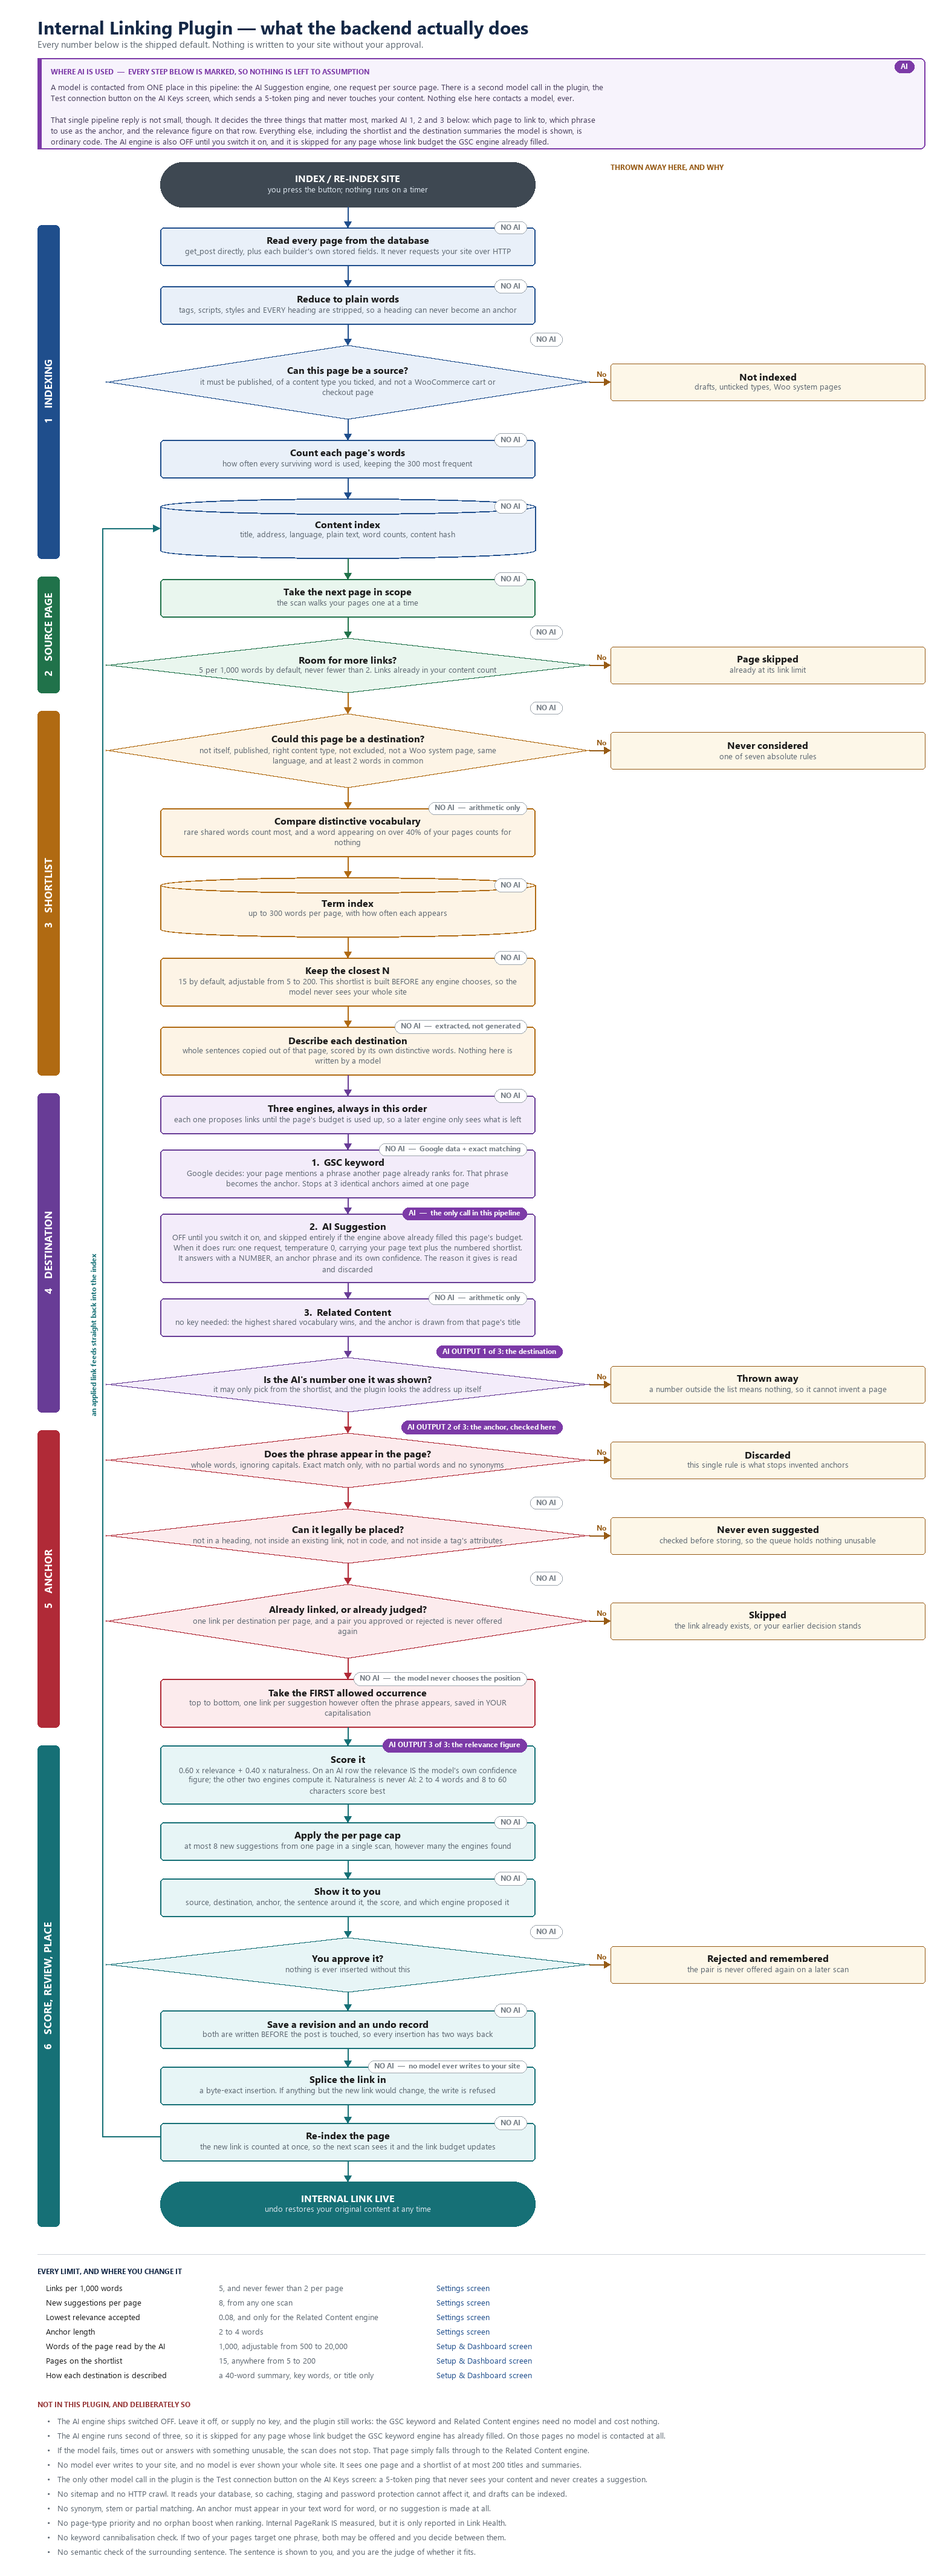
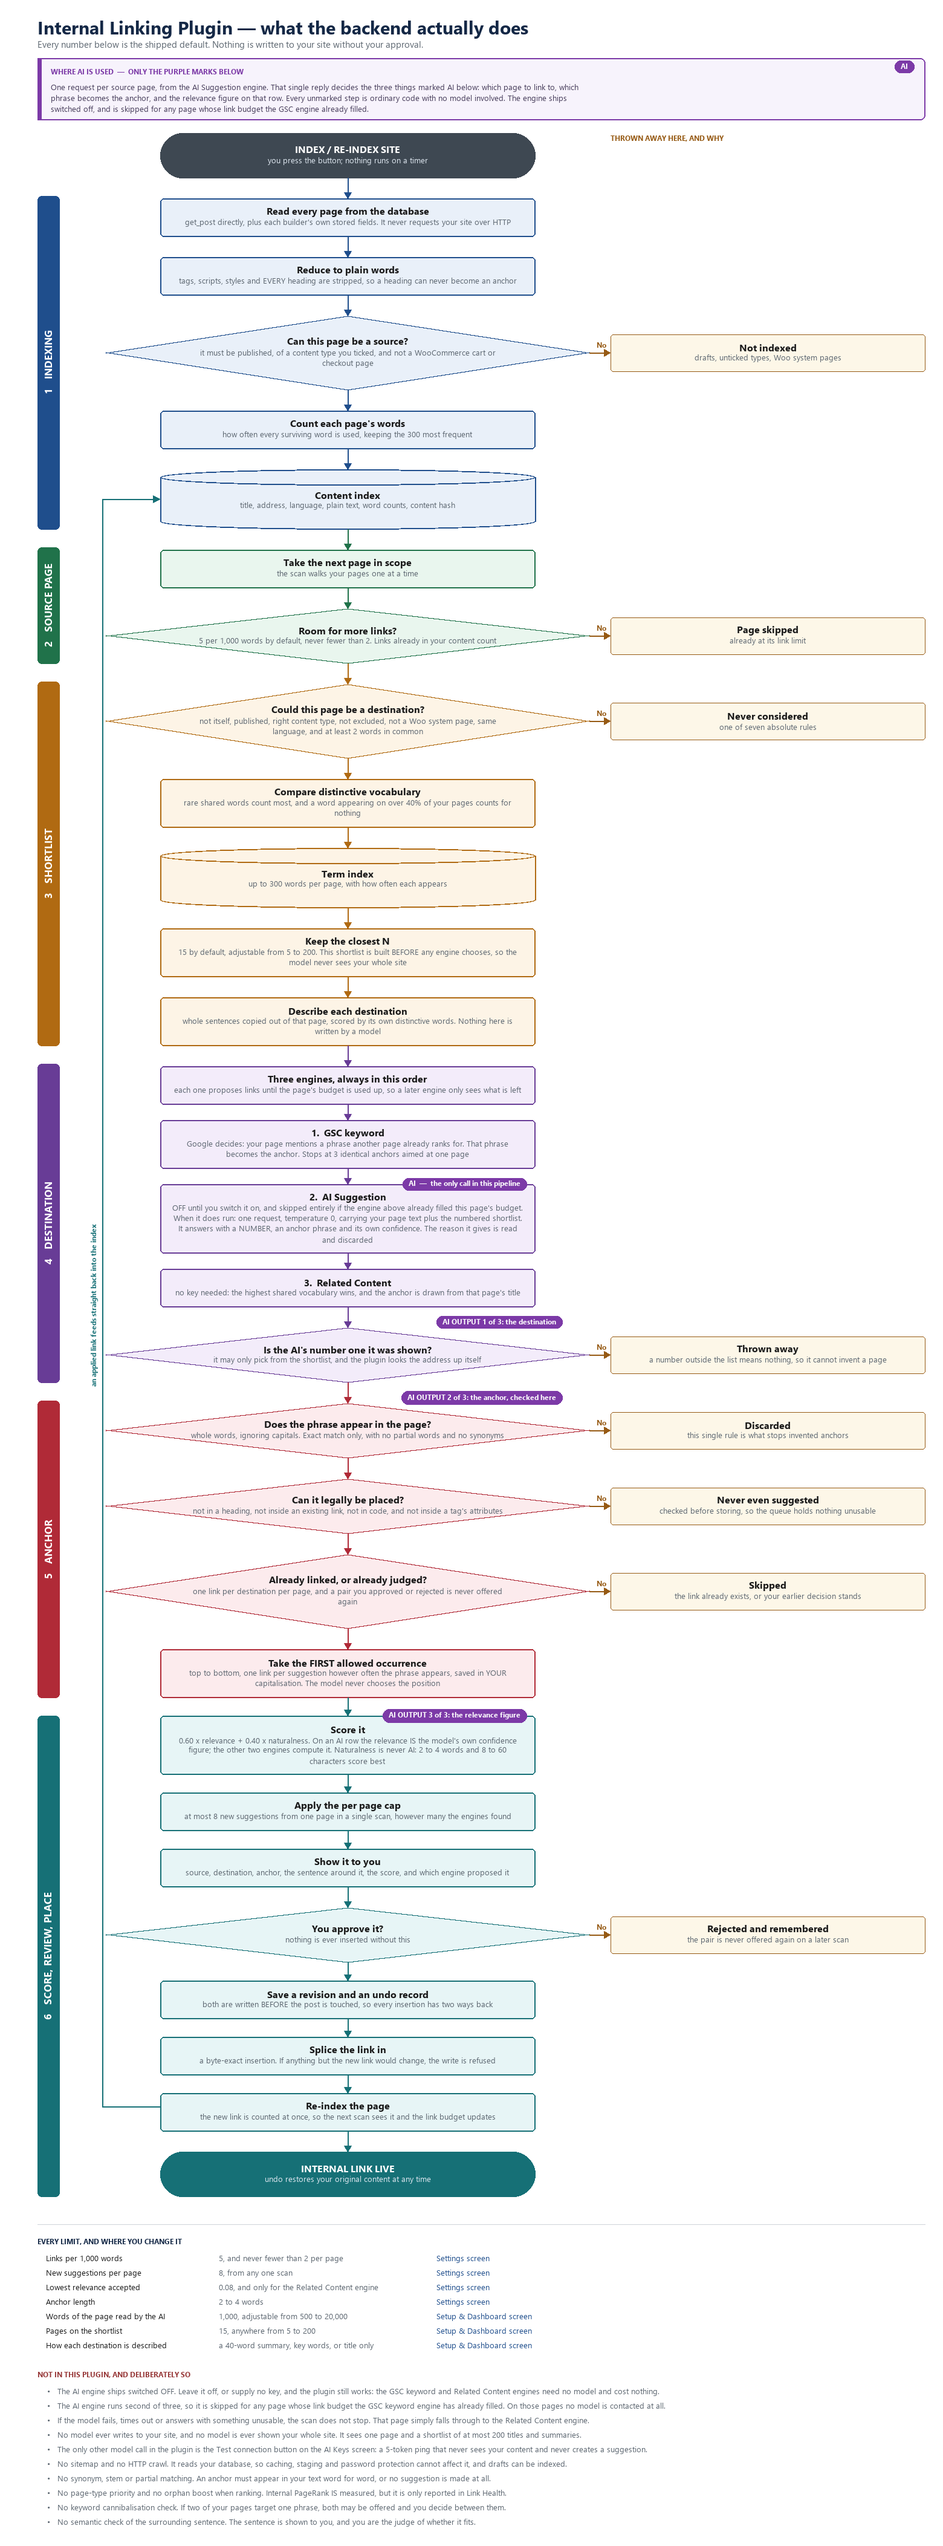
Mark only the steps AI touches, and shorten the callout
Badging every step with NO AI made the chart read as if the absence of
AI were the subject. It also crowded the shapes: 20 grey badges against
4 purple ones, so the marks that mattered stopped standing out.

Now only the four steps a model touches carry a mark. An unmarked step
uses no model, and the callout says so in one line, which is a rule the
reader can hold rather than a label repeated twenty times.

The callout drops from six lines to three and is retitled "Where AI is
used - only the purple marks below", which describes what it is telling
you. The Test connection detail moves out of it and stays in the footer
notes, where it was already stated.

Facts that a NO AI badge was carrying are folded into the step text so
nothing is lost: the model never chooses where in the page the link
goes now reads on the placement step itself.

SHOW_NO_AI in the generator restores the grey badges if they are ever
wanted again.

diff --git a/tools/make-flowchart.py b/tools/make-flowchart.py
@@ -72,6 +72,7 @@ def draw_text_block(title, desc, cx, cy, maxw, ink=INK, sub=GREY):
 
 
 AI_PUR = (124, 58, 167)
+SHOW_NO_AI = False   # badge only the steps a model touches; leave the rest bare
 
 
 def badge(x_right, y_edge, text, kind):
@@ -91,9 +92,10 @@ def badge(x_right, y_edge, text, kind):
 def node(y, title, desc, pal, shape="rect", bdg=None):
     """Draw a spine node. Returns (top, bottom, right_edge)."""
     dark, light = pal
-    # Every step is marked, so "unmarked" can never be mistaken for "unknown".
-    if bdg is None and shape != "oval":
-        bdg = ("NO AI", "no")
+    # Only AI is badged: a mark means a model was involved, and an unmarked
+    # step means it was not. The "no" badges stay in the data but are not drawn.
+    if bdg and bdg[1] != "ai" and not SHOW_NO_AI:
+        bdg = None
     if shape == "diamond":
         # Text sits in a band around the middle; work out the height needed so
         # the widest line still fits inside the sloping sides.
@@ -172,21 +174,16 @@ d.text((BAND, 62), "Every number below is the shipped default. Nothing is writte
 
 # Callout: where AI is, and is not, used.
 cy0 = 96
-CH = 150
+CH = 102
 d.rounded_rectangle([BAND, cy0, SKX1, cy0 + CH], radius=8, fill=(247, 243, 252), outline=AI_PUR, width=2)
 d.rectangle([BAND, cy0, BAND + 6, cy0 + CH], fill=AI_PUR)
-d.text((BAND + 22, cy0 + 14), "WHERE AI IS USED  —  EVERY STEP BELOW IS MARKED, SO NOTHING IS LEFT TO ASSUMPTION",
-       font=f_lbl, fill=AI_PUR)
+d.text((BAND + 22, cy0 + 14), "WHERE AI IS USED  —  ONLY THE PURPLE MARKS BELOW", font=f_lbl, fill=AI_PUR)
 for i, ln in enumerate([
-    "A model is contacted from ONE place in this pipeline: the AI Suggestion engine, one request per source page. There is a second model call in the plugin, the",
-    "Test connection button on the AI Keys screen, which sends a 5-token ping and never touches your content. Nothing else here contacts a model, ever.",
-    "",
-    "That single pipeline reply is not small, though. It decides the three things that matter most, marked AI 1, 2 and 3 below: which page to link to, which phrase",
-    "to use as the anchor, and the relevance figure on that row. Everything else, including the shortlist and the destination summaries the model is shown, is",
-    "ordinary code. The AI engine is also OFF until you switch it on, and it is skipped for any page whose link budget the GSC engine already filled.",
+    "One request per source page, from the AI Suggestion engine. That single reply decides the three things marked AI below: which page to link to, which",
+    "phrase becomes the anchor, and the relevance figure on that row. Every unmarked step is ordinary code with no model involved. The engine ships",
+    "switched off, and is skipped for any page whose link budget the GSC engine already filled.",
 ]):
-    if ln:
-        d.text((BAND + 22, cy0 + 38 + i * 18), ln, font=f_note, fill=(70, 60, 90))
+    d.text((BAND + 22, cy0 + 38 + i * 18), ln, font=f_note, fill=(70, 60, 90))
 badge(SKX1 - 18, cy0 + 14, "AI", "ai")
 d.text((SKX0, cy0 + CH + 22), "THROWN AWAY HERE, AND WHY", font=f_lbl, fill=SKIP[0])
 
@@ -279,8 +276,7 @@ steps = [
      ("Never even suggested", "checked before storing, so the queue holds nothing unusable"), None),
     ("Already linked, or already judged?", "one link per destination per page, and a pair you approved or rejected is never offered again", "diamond",
      ("Skipped", "the link already exists, or your earlier decision stands"), None),
-    ("Take the FIRST allowed occurrence", "top to bottom, one link per suggestion however often the phrase appears, saved in YOUR capitalisation", "rect", None,
-     ("NO AI  —  the model never chooses the position", "no")),
+    ("Take the FIRST allowed occurrence", "top to bottom, one link per suggestion however often the phrase appears, saved in YOUR capitalisation. The model never chooses the position", "rect", None, None),
 ]
 for title, desc, shape, sk, bd in steps:
     arrow(prev, prev + 34, S5)
